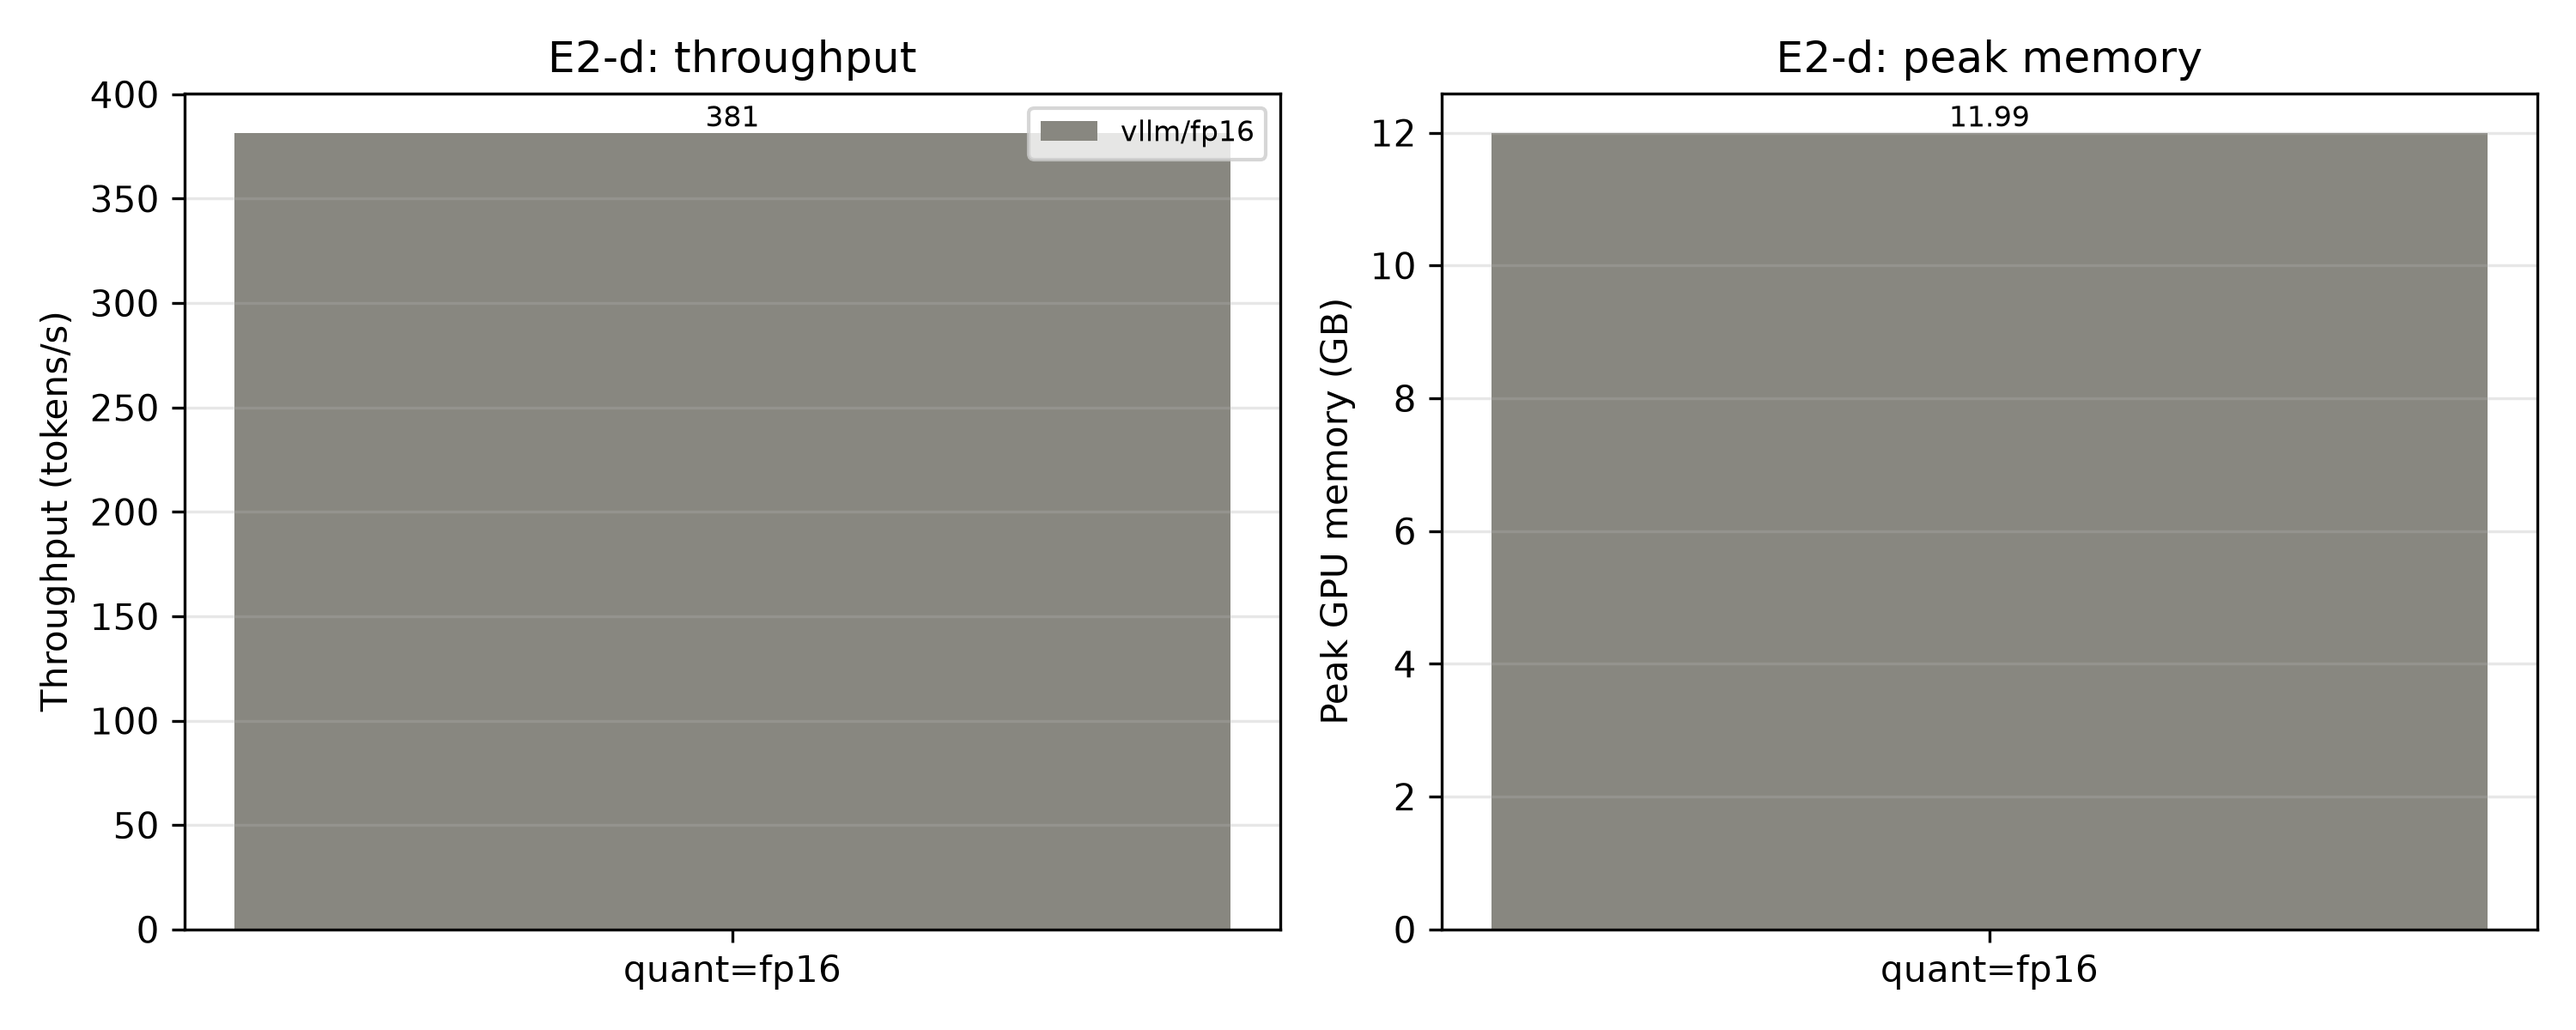
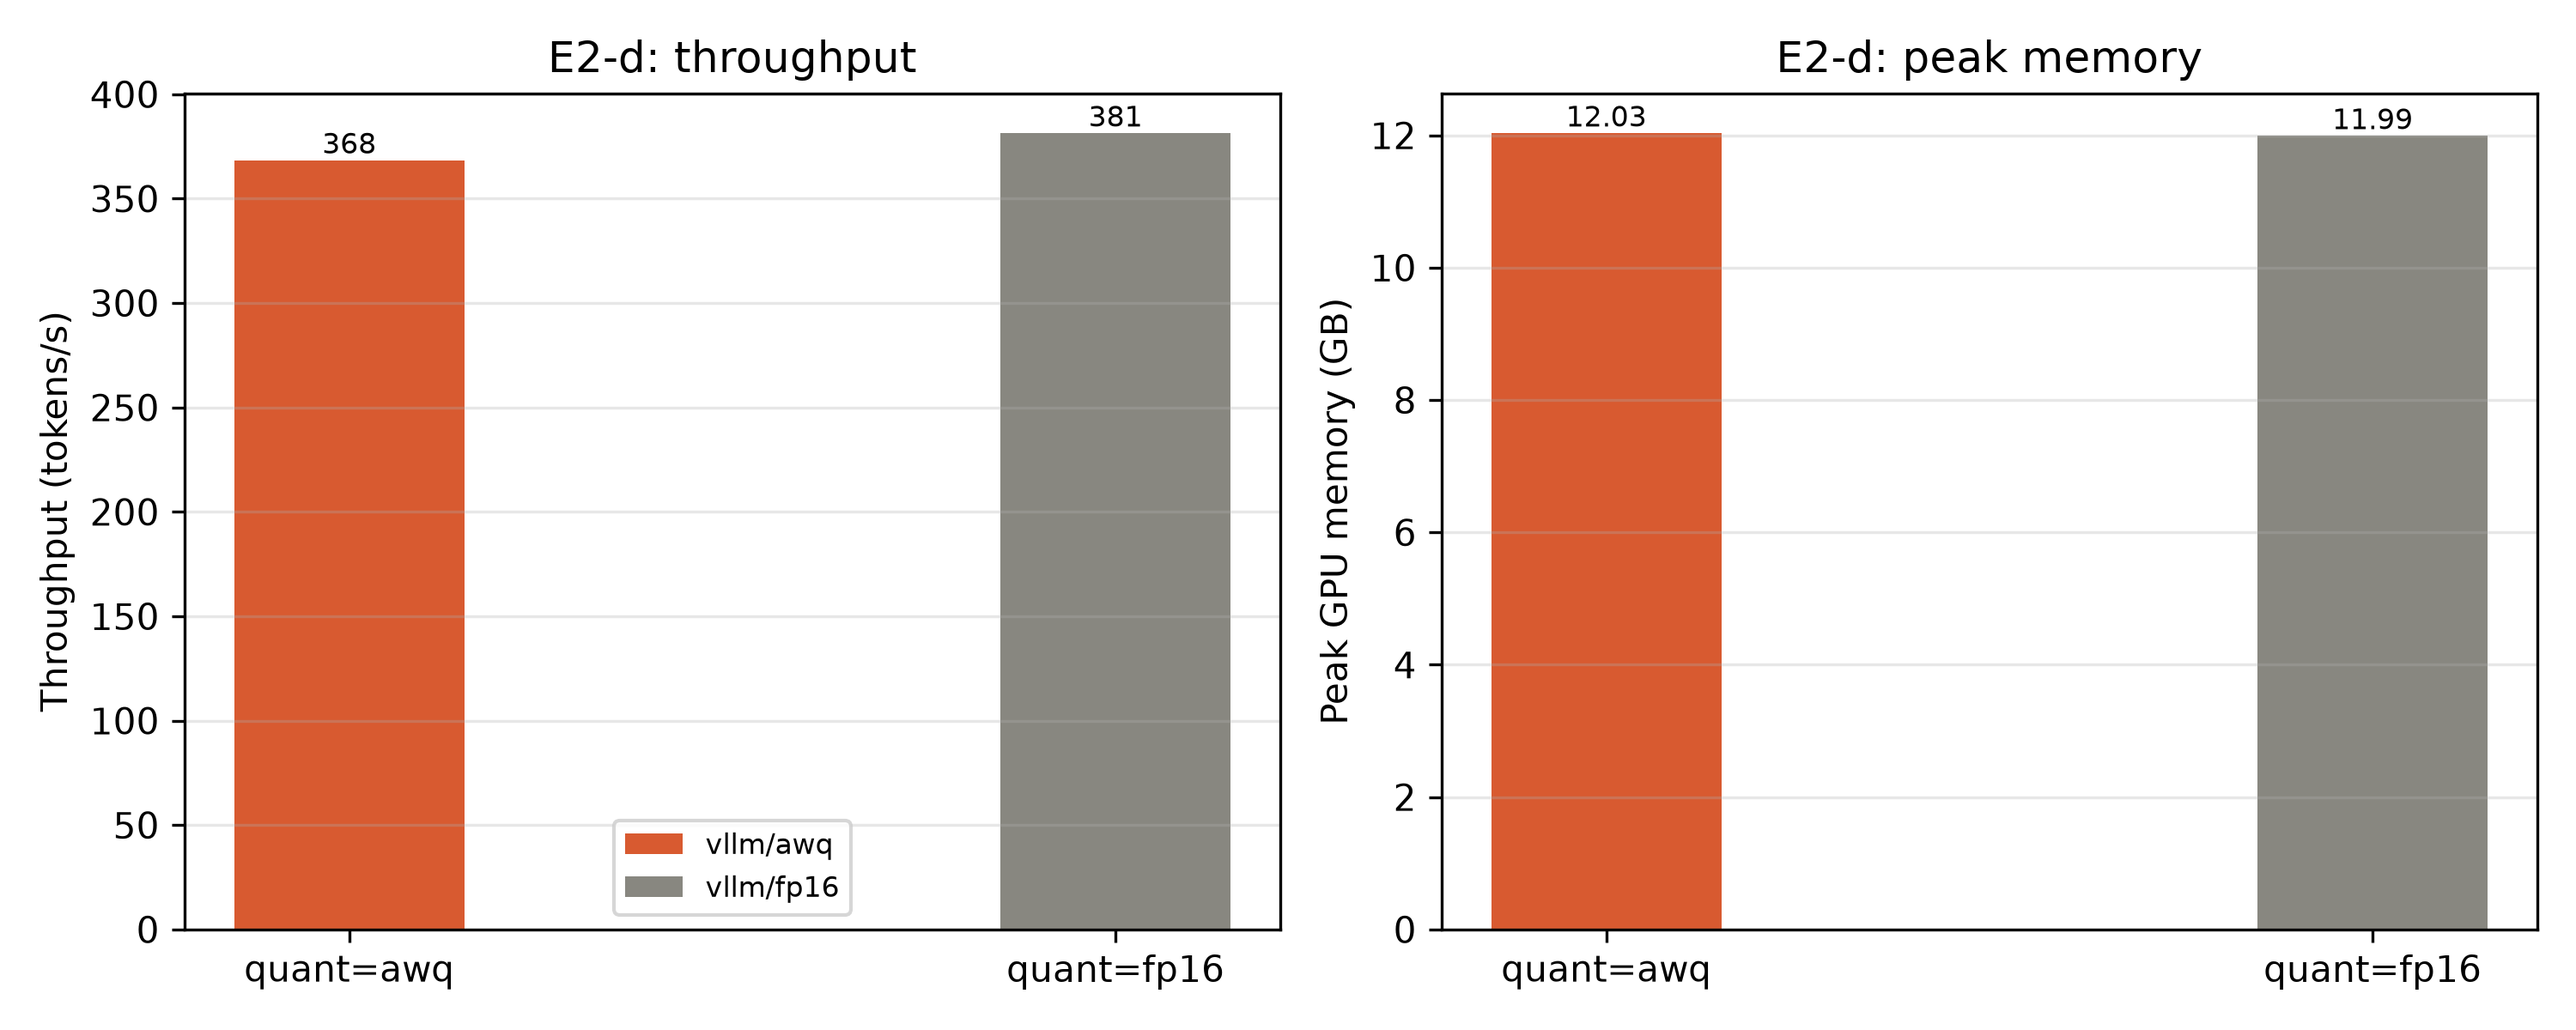
exp: E2-b/E2-c/E2-d 补齐，50 行；记录 T4 的 prefix cache 硬件限制
E2-b 显存利用率：0.6/0.7/0.9 → 305/305/300 tok/s
  → 调高显存占比没有收益（0.5 甚至起不来，KV 池装不下满长请求）
E2-d 量化（batch=32，同为 32 条请求）：
  fp16 381.3 tok/s / 11.99 GB；awq 368.4 tok/s / 12.03 GB
  → T4 上 Int4 反而慢 3.4%，且 peak_mem 看不出差别（vLLM 按 gpu_mem_util 预分配）
E2-c 前缀共享：只测到关闭档。开启后 triton kernel 要 96KB shared memory，
  T4(sm75) 只有 64KB → OutOfResources，硬件限制无解

README 环境坑补到第 8 条（含 ldconfig 修 libcuda、gpu_mem_util 下界）

diff --git a/README.md b/README.md
@@ -73,6 +73,17 @@ peak_mem_gb, ttft_ms, tpot_ms, p99_ttft_ms, p99_e2e_ms, note`
 6. **pip 从国内镜像装某个 nvidia 包会卡在同一下载偏移**（实测 `nvidia-cusolver` 卡在 49.3 MB，续传 31 次无果）：
    这是镜像上该文件有问题，不是网络抖动——断点重试永远停在同一个字节。单包换源补装即可，不用重跑全流程：
    `pip install --no-cache-dir -i https://mirrors.aliyun.com/pypi/simple/ nvidia-cusolver-cu12==<版本>`
+7. **T4 上 prefix caching 跑不了（`vllm==0.10.2` + V0 引擎），E2-c 只测得到关闭档**。两层错，都记下来：
+   - 先报 `AssertionError: libcuda.so cannot found!`：V0 的 prefix cache 靠 Triton kernel 搬 KV block，
+     triton 通过 **ldconfig 缓存**找 `libcuda.so.1`，而容器里 `ldconfig -p` 只有 `libcudart`
+     （nvidia-container-toolkit 注入后没刷新缓存）。修：
+     `echo /usr/lib/x86_64-linux-gnu > /etc/ld.so.conf.d/zz-nvidia.conf && ldconfig`
+   - 修完再报 `triton.runtime.errors.OutOfResources: shared memory, Required: 98304, Hardware limit: 65536`：
+     T4 是 sm75，每 SM 只有 64 KB 共享内存，那个 kernel 要 96 KB。**硬件限制，无解**——
+     开 prefix caching 只在 sm80+（A100 / 4090 / H800）上能测。
+8. **`gpu_mem_util` 不能低于 0.55**：0.5 时 vLLM 直接拒绝启动
+   （`max seq len (4096) is larger than ... KV cache (1232)`）——权重 5.8 GB 吃掉了 8 GB 预算的大半。
+   实测 0.6 / 0.7 / 0.9 三档吞吐分别为 305 / 305 / 300 tok/s，**调高显存占比没有收益**。
 
 模型下载走 ModelScope（`modelscope download --model Qwen/Qwen2.5-3B-Instruct --local_dir /root/models/qwen2.5-3b`）：
 `huggingface_hub` 在本网络下解压阶段会报 `TypeError: process() takes no keyword arguments`。
